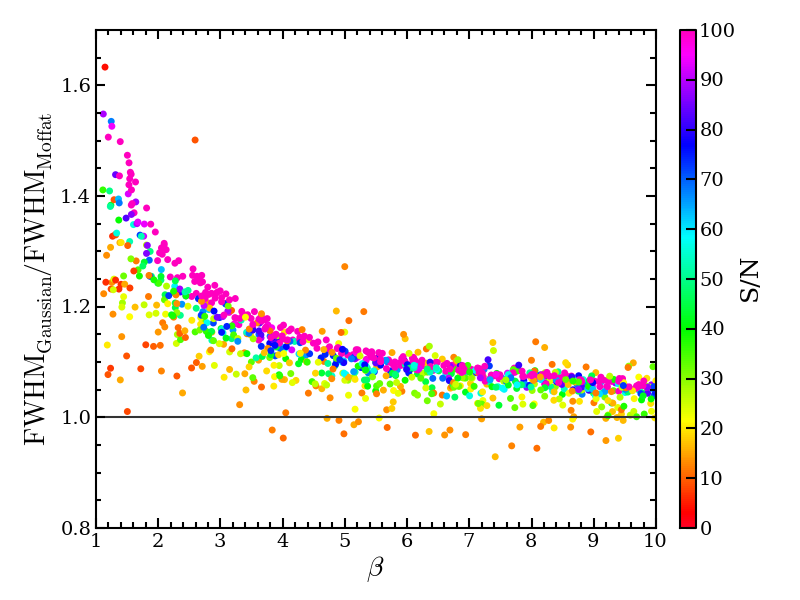
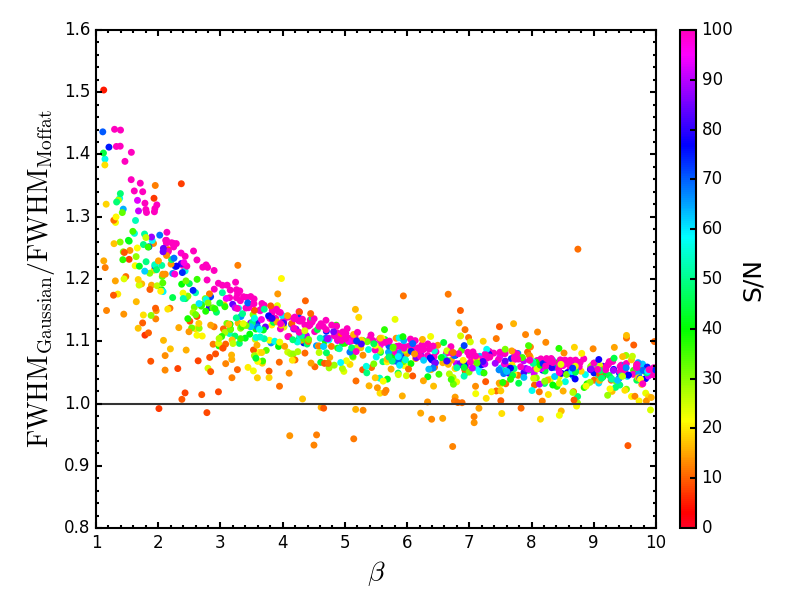
Added some new logging messages

diff --git a/pampelmuse/instruments/instrument.py b/pampelmuse/instruments/instrument.py
@@ -28,7 +28,7 @@ defines generic methods that are inherited by all its subclasses.
 
 Latest SVN revision
 -------------------
-371, 2016/08/17
+390, 2017/01/25
 """
 import logging
 import matplotlib
@@ -42,7 +42,7 @@ from ..utils.distance import dist2path, point_in_poly
 
 
 __author__ = "Sebastian Kamann (skamann@astro.physik.uni-goettingen.de)"
-__revision__ = 371
+__revision__ = 390
 
 
 class Instrument(object):
@@ -617,8 +617,10 @@ class Instrument(object):
         if self.is_valid(hdu):
             self.datahdu = hdu
             self.nvoxel = np.prod(self.datahdu.shape)
+            logging.info('Loaded IFS data from HDU <{0}> of file {1}'.format(
+                self.datahdu.name, self.datahdu.fileinfo()['file'].name))
         else:
-            logging.error('Data HDU [{0}] of file {1} has invalid format.'.format(
+            logging.error('Data HDU <{0}> of file {1} has invalid format.'.format(
                     hdu.name, hdu.fileinfo()['file'].name))
 
     def _set_varhdu(self, hdu):
@@ -636,8 +638,10 @@ class Instrument(object):
         """
         if self.datahdu is not None and self.is_valid(hdu):  # HDU containing data must be loaded first
             self.varhdu = hdu
+            logging.info('Loaded variances from HDU <{0}> of file {1}'.format(
+                self.varhdu.name, self.varhdu.fileinfo()['file'].name))
         else:
-            logging.error('Variance HDU [{0}] of file {1} has invalid format.'.format(
+            logging.error('Variance HDU <{0}> of file {1} has invalid format.'.format(
                     hdu.name, hdu.fileinfo()['file'].name))
 
     def _set_maskhdu(self, hdu):
@@ -656,8 +660,10 @@ class Instrument(object):
         """
         if self.datahdu is not None and self.is_valid(hdu):  # HDU containing data must be loaded first
             self.maskhdu = hdu
+            logging.info('Loaded bad-pixel mask from HDU <{0}> of file {1}'.format(
+                self.maskhdu.name, self.maskhdu.fileinfo()['file'].name))
         else:
-            logging.error('Mask HDU [{0}] of file {1} has invalid format.'.format(
+            logging.error('Mask HDU <{0}> of file {1} has invalid format.'.format(
                     hdu.name, hdu.fileinfo()['file'].name))
 
     def _set_residualshdu(self, hdu):
@@ -676,8 +682,10 @@ class Instrument(object):
         """
         if self.datahdu is not None and self.is_valid(hdu):  # HDU containing data must be loaded first
             self.residualshdu = hdu
+            logging.info('Loaded residuals from HDU <{0}> of file {1}'.format(
+                self.residualshdu.name, self.residualshdu.fileinfo()['file'].name))
         else:
-            logging.error('Residuals HDU [{0}] of file {1} has invalid format.'.format(
+            logging.error('Residuals HDU <{0}> of file {1} has invalid format.'.format(
                     hdu.name, hdu.fileinfo()['file'].name))
 
     def open(self, filename, extno=0, isvar=False, ismask=False, isresiduals=False, **kwargs):
